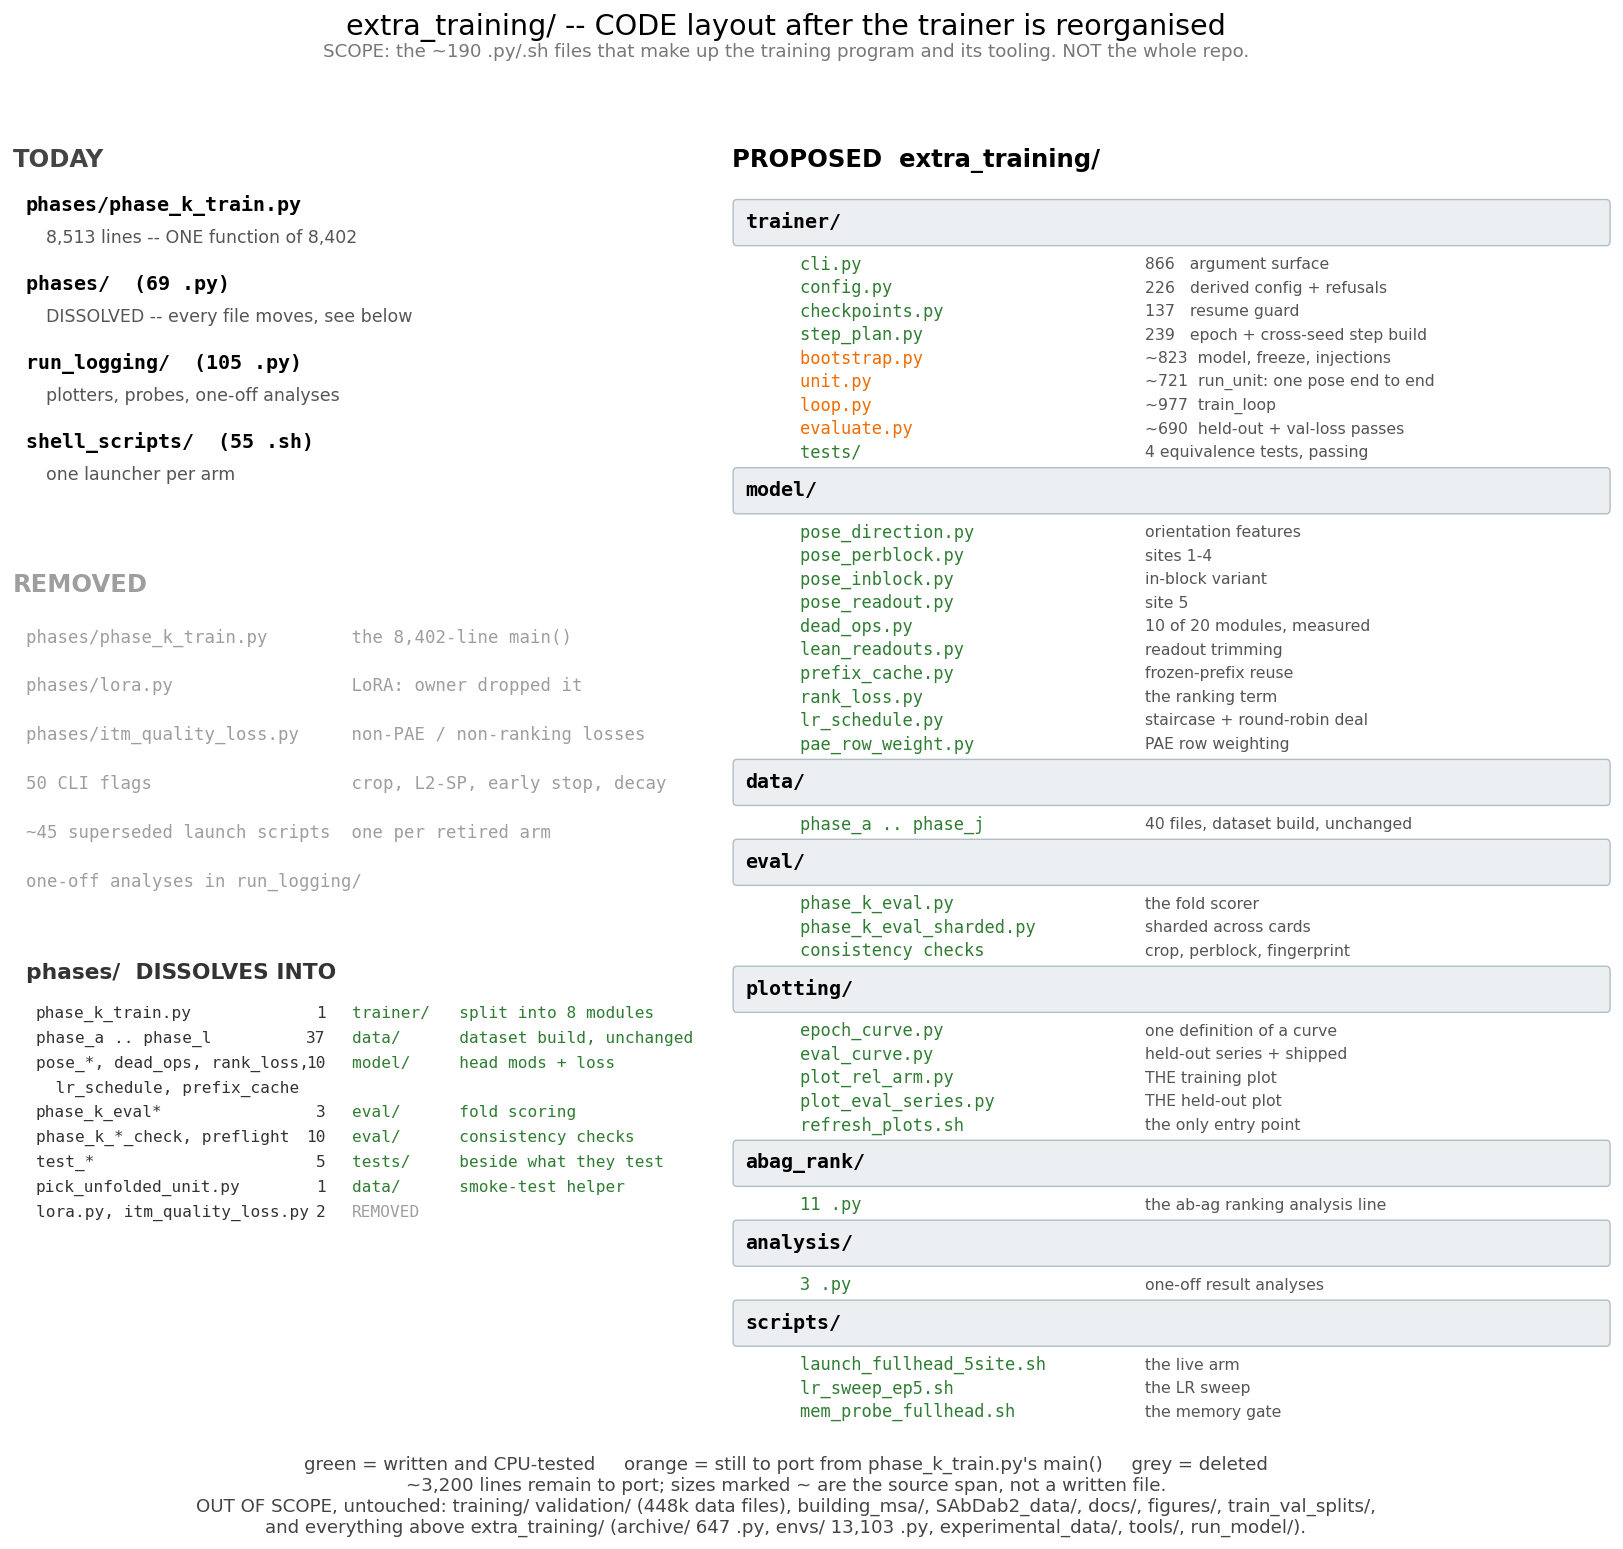
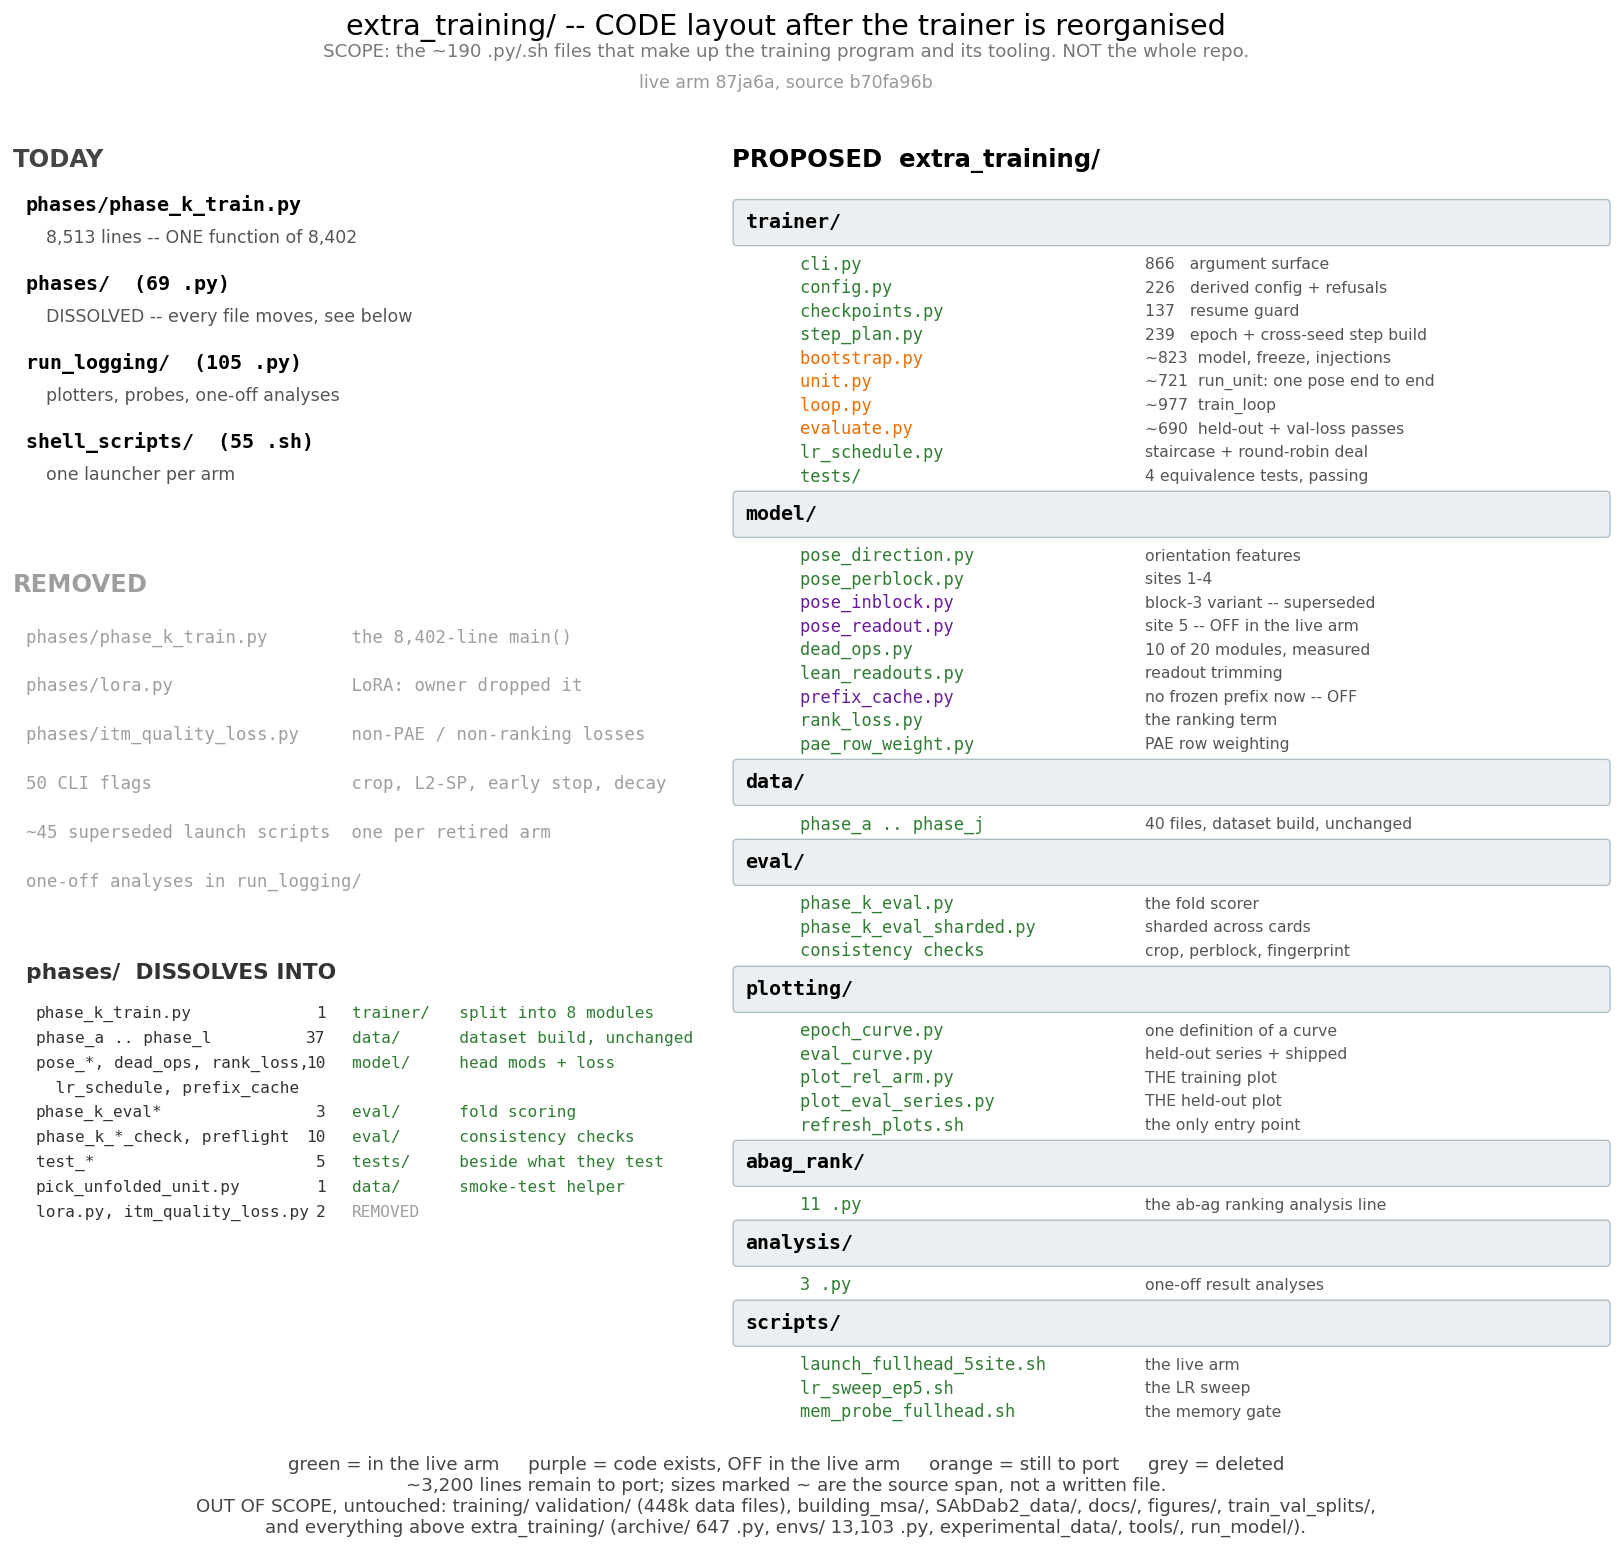
docs: describe the arm that is actually running, and stop the import graph overclaiming
Review on issue #9 found two defects. Both confirmed, both mine.

1. THE DOCS DESCRIBED THE PREVIOUS ARM. trainer/README.md said the pose enters "inside
pairformer block 3", that "only 20 tensors move", and that training has 849 structures.
The live arm 87ja6a injects at all four block inputs, moves 105 tensors / 5.36M params,
and runs 845 structures. The layout figure marked pose_readout.py "site 5" as done without
saying the live arm has it DISABLED -- which I disabled myself, after it opened 73vv52 at
PAE 46.27.

Fixed by making the distinction explicit everywhere rather than just correcting numbers:
README gains a "WHICH ARM THIS DESCRIBES" header (live / exists-but-off / superseded), the
figure gains a fourth colour for code that exists but is off in the live arm, and STATUS.md
is rewritten in those three sections with the run id and source SHA. A diagram of the wrong
training run teaches the codebase wrongly.

Also moved lr_schedule.py from model/ to trainer/ in the proposed layout: it is step and
optimiser scheduling, not a model operation.

2. THE IMPORT GRAPH WAS PRESENTED AS STRONGER THAN IT IS. index() resolves a bare name to
the FIRST matching path, and there is a real collision -- test_guard_fields.py exists in
both phases/ and run_logging/ -- so an edge through it can point at the wrong file. ROOTS
named launch_default_arm.sh but NOT launch_fullhead_5site.sh or mem_probe_fullhead.sh, the
[…]

diff --git a/extra_training/run_logging/plot_repo_layout.py b/extra_training/run_logging/plot_repo_layout.py
@@ -12,6 +12,7 @@ import matplotlib.pyplot as plt
 from matplotlib.patches import FancyBboxPatch
 
 DONE, TODO, GONE = "#2e7d32", "#ef6c00", "#9e9e9e"
+OFF = "#6a1b9a"   # code exists, but the LIVE arm does not use it
 
 TODAY = [
     ("phases/phase_k_train.py", "8,513 lines -- ONE function of 8,402", TODO),
@@ -30,17 +31,18 @@ PROPOSED = [
     ("    unit.py",         "~721  run_unit: one pose end to end",  TODO),
     ("    loop.py",         "~977  train_loop",                     TODO),
     ("    evaluate.py",     "~690  held-out + val-loss passes",     TODO),
+    ("    lr_schedule.py",   "staircase + round-robin deal",        DONE),
     ("    tests/",          "4 equivalence tests, passing",         DONE),
     ("model/", "", None),
     ("    pose_direction.py",   "orientation features",             DONE),
     ("    pose_perblock.py",    "sites 1-4",                        DONE),
-    ("    pose_inblock.py",     "in-block variant",                 DONE),
-    ("    pose_readout.py",     "site 5",                           DONE),
+    ("    pose_inblock.py",     "block-3 variant -- superseded",     OFF),
+    ("    pose_readout.py",     "site 5 -- OFF in the live arm",     OFF),
     ("    dead_ops.py",         "10 of 20 modules, measured",       DONE),
     ("    lean_readouts.py",    "readout trimming",                 DONE),
-    ("    prefix_cache.py",     "frozen-prefix reuse",              DONE),
+    ("    prefix_cache.py",     "no frozen prefix now -- OFF",       OFF),
     ("    rank_loss.py",        "the ranking term",                 DONE),
-    ("    lr_schedule.py",      "staircase + round-robin deal",     DONE),
+    
     ("    pae_row_weight.py",   "PAE row weighting",                DONE),
     ("data/", "", None),
     ("    phase_a .. phase_j", "40 files, dataset build, unchanged", DONE),
@@ -136,13 +138,15 @@ def main(out="figures/repo_layout.png"):
 
     fig.suptitle("extra_training/ -- CODE layout after the trainer is reorganised",
                  fontsize=16.5, y=0.985)
+    fig.text(0.5, 0.937, "live arm 87ja6a, source b70fa96b", ha="center",
+             fontsize=10, color="#999")
     fig.text(0.5, 0.957,
              "SCOPE: the ~190 .py/.sh files that make up the training program and its tooling. "
              "NOT the whole repo.",
              ha="center", fontsize=10.5, color="#777")
     fig.text(0.5, 0.020,
-             "green = written and CPU-tested     orange = still to port from phase_k_train.py's main()     "
-             "grey = deleted\n"
+             "green = in the live arm     purple = code exists, OFF in the live arm     "
+             "orange = still to port     grey = deleted\n"
              "~3,200 lines remain to port; sizes marked ~ are the source span, not a written file.\n"
              "OUT OF SCOPE, untouched: training/ validation/ (448k data files), building_msa/, "
              "SAbDab2_data/, docs/, figures/, train_val_splits/,\n"

diff --git a/extra_training/phases/trainer/import_graph.py b/extra_training/phases/trainer/import_graph.py
@@ -25,14 +25,37 @@ import sys
 
 ROOT = os.path.dirname(os.path.dirname(os.path.dirname(os.path.abspath(__file__))))
 SEARCH = ["phases", "run_logging", "shell_scripts"]
-ROOTS = ["shell_scripts/launch_default_arm.sh", "phases/phase_k_train.py",
+# THE LIVE LAUNCHERS ARE ROOTS. Review of b70fa96b: this list named launch_default_arm.sh but
+# not the scripts that actually start today's arm, so reachability computed from it would have
+# called the live memory gate unreachable.
+ROOTS = ["shell_scripts/launch_fullhead_5site.sh", "shell_scripts/mem_probe_fullhead.sh",
+         "shell_scripts/lr_sweep_ep5.sh",
+         "shell_scripts/launch_default_arm.sh", "phases/phase_k_train.py",
          "phases/phase_k_eval.py", "phases/phase_k_eval_sharded.py",
          "run_logging/refresh_plots.sh", "run_logging/plot_rel_arm.py",
          "run_logging/plot_eval_series.py"]
 
 
+def collisions():
+    """Basenames that exist in more than one searched directory.
+
+    index() resolves a bare name to ONE path. Where a basename is ambiguous that choice is
+    arbitrary, so an edge drawn to it may point at the wrong file and reachability computed
+    through it is not evidence. Reported rather than silently resolved.
+    """
+    seen = {}
+    for d in SEARCH:
+        for f in sorted(os.listdir(os.path.join(ROOT, d))):
+            if f.endswith((".py", ".sh")):
+                seen.setdefault(f, []).append(f"{d}/{f}")
+    return {k: v for k, v in seen.items() if len(v) > 1}
+
+
 def index():
-    """{module_or_basename: relpath} for everything we could resolve an edge to."""
+    """{module_or_basename: relpath} for everything we could resolve an edge to.
+
+    FIRST PATH WINS, and that is a real limitation, not a detail: see collisions().
+    """
     out = {}
     for d in SEARCH:
         for f in sorted(os.listdir(os.path.join(ROOT, d))):
@@ -81,6 +104,17 @@ def main():
     unreach = sorted(set(allf) - seen)
     print(f"roots: {len(ROOTS)} + {len(tests)} tests")
     print(f"reachable: {len(seen)} of {len(allf)} files in {', '.join(SEARCH)}")
+    col = collisions()
+    if col:
+        print(f"AMBIGUOUS BASENAMES: {len(col)} -- any edge through these is UNKNOWN, "
+              f"not safe-to-remove")
+        for k, v in sorted(col.items()):
+            print(f"  {k}: {v}")
+        print()
+    print("THIS IS TRIAGE, NOT A REACHABILITY PROOF. It regex-scans text, so comments and "
+          "strings make false edges; it resolves dotted imports by first component; and it "
+          "cannot see subprocess calls or shell variables. Absence of an edge is a question, "
+          "never a verdict.\n")
     print(f"NO STATIC EDGE: {len(unreach)}\n")
     by = {}
     for f in unreach:

diff --git a/extra_training/STATUS.md b/extra_training/STATUS.md
@@ -1,76 +1,51 @@
-# Current experiment
+# STATUS — what is running, what exists but is off, what is planned
 
-Everything below is read from the running process and its `args.json`, not from prose that may
-have gone stale. Regenerate with `python -I phases/trainer/status.py`.
+Regenerated 2026-11-09, source `b70fa96b`. If this disagrees with a run's own `args.json`, the
+`args.json` is right and this file is stale.
 
-## The question
+## 1. LIVE
 
-At equal or less compute than a free 50-seed budget, can we improve DockQ on FoldBench/PXM
-antibody–antigen interfaces by making the confidence head rank poses better?
+**`87ja6a`**, launched 10:17 AM EST 2026-11-09 on cards 4/5/7, 20 epochs, lr 1e-3.
 
-The head predicts ipTM; selection is an argmax over 150 poses *within* one interface. Pooled over
-all poses ipTM correlates with DockQ at **+0.83**, but *within* an interface — the only comparison
-the argmax makes — it is **+0.15**. That gap is the headroom.
+| | |
+|---|---|
+| trainable | **105 tensors / 5,358,000 params** — the whole confidence head except the 75 never-called LEAN_SINGLE tensors and the 81 behind the 10 certified-dead pair modules |
+| pose enters | the **four pairformer block inputs**: distance as an untied copy of block 0's pretrained injection, plus a zero-init orientation term at each |
+| checkpointing | off at or below **1,250 tokens** (measured, see below); above that, on |
+| pool | **845** structures (8 skipped; 3 of them for the memory cap) |
+| prefix cache | **off** — no frozen prefix exists once all four blocks train |
+| eval | held-out 83-structure fold at epochs 5 / 10 / 15 / 20 |
+| pace | ~95 min/epoch, worst peak 81.88 GB of 94.97 |
 
-## What is running
+## 2. EXISTS, BUT OFF IN THE LIVE ARM
 
-Two arms, identical in everything but the learning rate, so one is the other's control.
+| code | why off |
+|---|---|
+| `pose_readout.py` (site 5, after `pae_ln`) | removed at the owner's direction after `73vv52`. `--pose-readout-copy-distance` copies two arms and only the one-hot arm is bounded; the raw-distance arm is `||w|| * d` with d in angstroms — 474% of the normalised signal at 5 A, 1,895% at 20 A. `73vv52` opened at PAE **46.27** over its first 23 steps against a normal 2.95. **If reinstated: copy the one-hot arm only, leave raw-distance at zero.** |
+| `pose_inblock.py` (block 3 only) | superseded. It was the previous arm (`peae97`, 20 trainable tensors). Mutually exclusive with `--pose-perblock`. |
+| `prefix_cache.py` | caches a frozen prefix; there is no frozen prefix now. |
+| `lora.py`, `itm_quality_loss.py` | dropped by the owner; slated for removal. |
 
-| | `qip9ta` (live) | `hv2kqa` (control, stopped at epoch 7) |
+## 3. MEASURED, NOT FITTED
+
+Memory, one rank, the live config, checkpointing OFF:
+
+| tokens | pass A | pass B |
 |---|---|---|
-| lr | **0.003** | 0.01 |
-| staircase | 20 → 1e-3, 40 → 1e-4 | same |
-| epochs | 60 | 60 |
-| seed / accum / nsample | 0 / 30 / 5 | same |
-| loss | PAE + `rel` (relative iTM, mean-centred per interface), `alpha_rank` 75 | same |
-| held out | `training/valfull83/pool.csv`, budget 30, every 5 epochs | same |
+| 1,004 | 13.95 GB | 56.81 GB OK |
+| 1,254 | 20.78 GB | **87.62 GB OK** |
+| 1,499 | 28.93 GB | OOM |
+| 1,822 | 41.91 GB | OOM |
 
-Both start fresh from the shipped `protenix-v2` head. Cards 4, 5, 7.
+The old fit `peak = 2.02 + 2.896e-05 * tokens^2` predicted 67 GB at 1,499 where the truth was an
+OOM, so it does **not** transfer to this architecture. Runtime token counts equal the manifest's
+`tokens` column, so 1,250 is a true ceiling.
 
-**Trainable: 20 tensors, 1,154,560 params — 7.3% of the live confidence head.** Block 3's
-`tri_att_start` and `pair_transition`, the pose injection (20,480 params), and the PAE readout.
-Everything else is frozen.
+Epoch time, `73vv52` epoch 1, 94.7 min: GPU-busy 86.9 min = **92%**. Largest host bucket is
+`trunk_h2d` at 10.1 min.
 
-## The held-out set
+## 4. PLANNED, NOT WRITTEN
 
-83 structures / 141 interfaces, budget 30 seeds. Two disjoint waves: the "old 53" (92 interfaces,
-what every number in `paper_results.md` §3–4 was measured on) and a "new 30" (49 interfaces, much
-more headroom: 0.2173 vs 0.1299).
-
-**The seeds are TRIMMED, and this matters.** 30 kept out of a 100-wide sweep, chosen per structure
-by `anchored-coverage-v2` to preserve the oracle, so the kept ids are sparse — only 5 of 83
-structures kept a contiguous set. `training/valfull83/seed_manifest.json` is authoritative;
-assuming `400000..400029` reports 321 of 1,590 units as "missing trunks" and stops the run.
-
-## Reproduce the figures
-
-    ./run_logging/refresh_plots.sh qip9ta,hv2kqa figures
-    # -> figures/qip9ta_train.png        PAE, rel, within-interface rho, score spread
-    # -> figures/qip9ta_validation.png   DockQ, frac acceptable, rho vs the shipped baseline
-
-Those two are the only supported plotters. Both draw only; every number comes from
-`run_logging/epoch_curve.py` (training) and `eval_curve.py` (held out).
-
-**The training curve is the ALL-RANKS mean.** `trajectory.csv` is rank 0's alone, so averaging its
-per-pose column reports the third of the structures that rank walked. `epoch_curve` uses the
-cross-rank `batch_<term>` weighted by `batch_n`. This defect recurred three times before the logic
-was centralised; `run_logging/test_epoch_curve.py` fails if a plotter stops using the helper.
-
-## Tests that must pass
-
-    python -I run_logging/test_epoch_curve.py          all-ranks curve, per-rank trajectories
-    python -I run_logging/test_seed_manifest.py        the trimmed seed set, 83-structure pool
-    LAYERNORM_TYPE=openfold python -I phases/trainer/test_cli_equivalence.py
-    LAYERNORM_TYPE=openfold python -I phases/trainer/test_config_equivalence.py
-    python -I phases/trainer/test_checkpoints_equivalence.py
-    python -I phases/trainer/test_step_plan.py
-
-## Known, and deliberate
-
-- `protenix-v2` ships **81 dead tensors / 3.9M params** in the confidence head — every
-  `tri_att_end`, all of block 0's pair track. They hold ~4.9e-37 on a 1000-spaced integer lattice
-  with a constant exponent, which is neither trained weights nor an initialisation. `--skip-dead-ops`
-  declines to compute them; the arithmetic is bit-identical because a zero on a residual branch is
-  the identity. Every baseline carries the same dead modules.
-- `phases/trainer/` is a **separate minimal copy** of the trainer's config surface. Nothing runs it.
-  `phase_k_train.py` is what executes.
+`phases/trainer/` holds `cli`, `config`, `checkpoints`, `step_plan` and 4 passing CPU tests.
+Still to port out of `phase_k_train.py`'s 8,402-line `main()`: `bootstrap` (~823),
+`unit` (~721), `loop` (~977), `evaluate` (~690). **Nothing in `trainer/` runs the experiment.**

diff --git a/extra_training/phases/trainer/README.md b/extra_training/phases/trainer/README.md
@@ -3,11 +3,27 @@
 Nothing here runs the experiment. `phases/phase_k_train.py` does. This is a separate copy being
 assembled with a verification step per piece, so cutover is a later, deliberate decision.
 
+## WHICH ARM THIS DESCRIBES
+
+**Live arm `87ja6a`**, launched 2026-11-09, source `b70fa96b`. Full confidence head minus
+certified dead ops; pose at the four pairformer block inputs; `--ckpt-token-threshold 1250`;
+prefix cache off; lr 1e-3; 20 epochs; held-out eval at 5/10/15/20.
+
+**Code that exists but is OFF in this arm.** `pose_readout.py` installs a fifth injection site
+after `pae_ln`. It is **not** used by `87ja6a`. It was enabled once, in `73vv52`, with
+`--pose-readout-copy-distance`, and that copies two arms of which only the one-hot arm is bounded:
+the raw-distance arm is `||w|| * d` with d in angstroms, 474% of the normalised signal at 5 A and
+1,895% at 20 A. `73vv52` opened at PAE 46.27 over its first 23 steps against a normal 2.95. If the
+site is ever reinstated, copy the one-hot arm only and leave raw-distance at zero.
+
+**Superseded.** `pose_inblock.py` (injection inside block 3 only, 20 trainable tensors) was the
+previous arm `peae97`/`3h3y37`. This README described that arm until `b70fa96b`.
+
 ## The vocabulary, because nothing below parses without it
 
 | term | what it is |
 |---|---|
-| **structure** | one antibody–antigen complex, e.g. `9uax`. 849 of them in training. |
+| **structure** | one antibody-antigen complex, e.g. `9uax`. **845** of them in training (8 skipped: 3 for the 1,850-token memory cap). |
 | **pose** | one predicted 3D structure for it. Scored against truth by **DockQ** (0–1, ≥0.23 is "acceptable"). |
 | **seed** | one folding run. Each produces **5 samples**, so a seed is 5 poses. |
 | **unit** | one (structure, seed) pair — the cached trunk the head reads. `9uax/free_500012`. |
@@ -23,13 +39,16 @@ assembled with a verification step per piece, so cutover is a later, deliberate 
 
 1. A **unit** is a cached trunk: the frozen 464M-parameter model already ran, and its pair
    representation `z` is on disk.
-2. The **confidence head** reads `z`, plus the pose's geometry injected inside pairformer block 3,
-   and predicts a **PAE** distribution.
+2. The **confidence head** reads `z`, plus the pose's geometry injected at **each of the four
+   pairformer block inputs** (distance as an untied copy of block 0's pretrained injection, plus a
+   zero-init orientation term), and predicts a **PAE** distribution.
 3. **ipTM** is computed from that PAE — one number per pose per interface.
 4. Two losses: **PAE** against the true error, and **rel**, which regresses mean-centred ipTM onto
    mean-centred true iTM *within* an interface. Only `rel` can teach ranking; PAE dominates the
    gradient.
-5. 30 structures' worth of poses accumulate into one optimiser step. Only **20 tensors** move.
+5. 30 units' worth of poses accumulate into one optimiser step. **105 tensors / 5.36M parameters**
+   move: the whole head except the 75 never-called LEAN_SINGLE tensors and the 81 behind the 10
+   certified-dead pair modules.
 6. Every 5 epochs the head is scored on 83 held-out structures: pick the argmax-ipTM pose per
    interface, report its DockQ.
 
